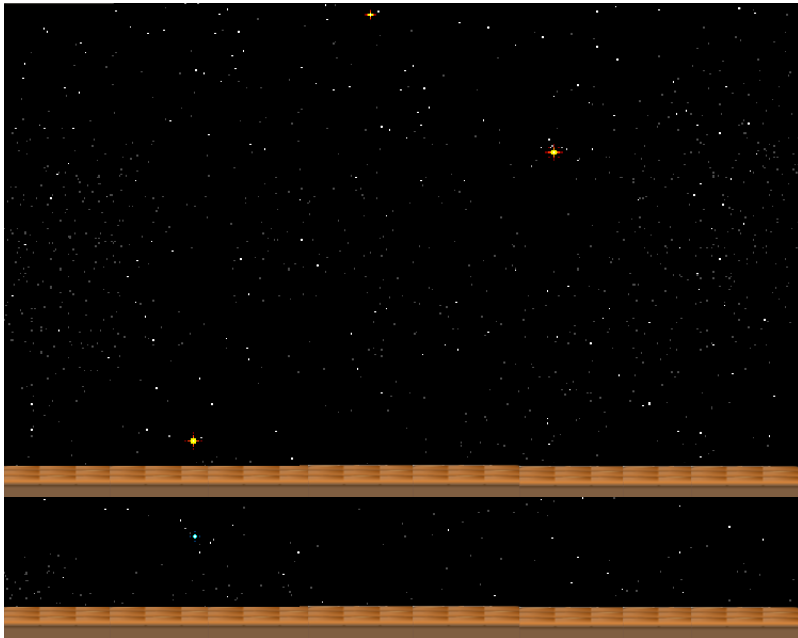
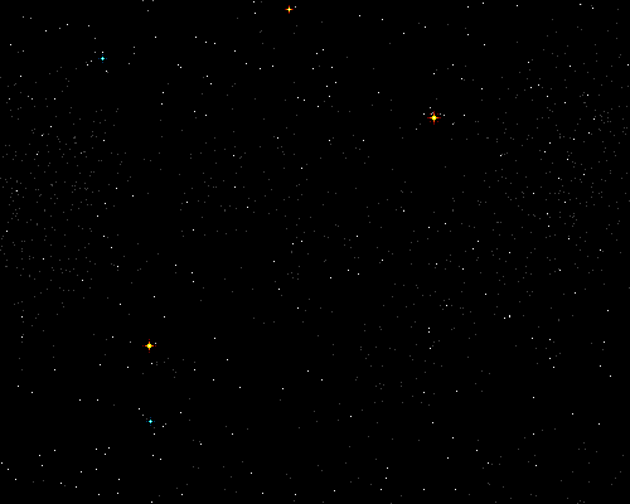
ajustes icones, plataformas, som

diff --git a/core/src/main/java/br/com/drestranho/jogogleiton/core/JogoGleiton.java b/core/src/main/java/br/com/drestranho/jogogleiton/core/JogoGleiton.java
@@ -5,21 +5,28 @@ import static playn.core.PlayN.*;
 import java.util.ArrayList;
 import java.util.List;
 
+import playn.core.CanvasImage;
 import playn.core.Game;
 import playn.core.GroupLayer;
 import playn.core.Image;
 import playn.core.ImageLayer;
 import playn.core.Pointer;
+import playn.core.Sound;
+import pythagoras.f.Rectangle;
 
 public class JogoGleiton extends Game.Default {
 	static final float GRAVITY = 64;
 
 	ImageLayer layer;
+	CanvasImage pontosImagem;
+	ImageLayer pontosLayer;
+	int pontos;
 	Image inimigo2;
 	List<Inimigo> inimigos;
 	List<Canhao> canhoes; 
 	//	GroupLayer misseisLayer;
 	Pointer.Adapter pointer;
+	Sound tiro;
 
 	float px, py;
 	float x, y;
@@ -33,18 +40,31 @@ public class JogoGleiton extends Game.Default {
 	@Override
 	public void init() {
 		// create and add background image layer
-		Image bgImage = assets().getImage("images/fundo.png");
+		Image bgImage = assets().getImage("images/fundo2.png");
 		ImageLayer bgLayer = graphics().createImageLayer(bgImage);
+//		bgLayer.setScale(Util.Y_MAX, Util.X_MAX);
 		graphics().rootLayer().add(bgLayer);
+		
+		Image soloImage = assets().getImage("images/solo.png");
+		for (int i=0; i<Util.X_MAX; i+=17) {
+			ImageLayer soloLayer = graphics().createImageLayer(soloImage);
+			graphics().rootLayer().add(soloLayer);
+			soloLayer.transform();
+			soloLayer.setTranslation(i,Util.Y_MAX+25);
+		}
 
 		x = graphics().width() / 2;
 		y = graphics().height() / 2;
 		ax = GRAVITY;
+		
+		initPontos();
+		
+		tiro = assets().getSound("images/tiro");
 
 		canhoes = new ArrayList<Canhao>();
 		float distancia = (float) (Util.X_MAX/(Util.N_CANHAO+1));
 		for ( int i=0; i< Util.N_CANHAO ; i++) {
-			canhoes.add(new Canhao((i+1)*distancia,Util.Y_CANHAO, "images/canhao.png"));//51x61
+			canhoes.add(new Canhao((i+1)*distancia,Util.Y_CANHAO, Util.SRC_CANHAO));//51x61
 		}
 		
 
@@ -61,11 +81,21 @@ public class JogoGleiton extends Game.Default {
 				//	    	    tiro.setTranslation(event.x(), event.y());
 				//	    	    misseisLayer.add(tiro);
 				for (Canhao c : canhoes )
-					if (c.getBounds().contains(event.x(), event.y()))
+					if (c.getBounds().contains(event.x(),event.y())) {
 						c.atirar();
+						tiro.play();
+					}
 			}
 		});
 
+	}
+	
+	void initPontos() {
+		pontos=0;
+		pontosImagem = graphics().createImage(640, 50);
+		pontosLayer = graphics().createImageLayer(pontosImagem);
+		pontosLayer.setScale(3f);
+		graphics().rootLayer().add(pontosLayer);
 	}
 
 	private void adicionaInimigo() {
@@ -92,12 +122,6 @@ public class JogoGleiton extends Game.Default {
 			i.mover();
 		}
 
-		// Update physics.
-		//	    delta /= 1000;
-		//	    vx += ax * delta;
-		//	    vy += ay * delta;
-		//	    x += 1;//vx * delta;
-		//	    y += vy * delta;
 	}
 	
 	public void checarColisoes() {
@@ -107,20 +131,18 @@ public class JogoGleiton extends Game.Default {
 					if (i.getBounds().intersects(m.getBounds())) {
 						i.isVisible=false;
 						m.isVisible=false;
-//						c.getMisseis().remove(m);
-//						inimigos.remove(i);
+						pontos++;
 					}
 				}
 				if (m.getY()<=0) {
 					m.isVisible=false;
-//					c.getMisseis().remove(m);
 				}
 			}
 		}
-		for (int i=0;i<inimigos.size()-1;i++) {//if (inimigos.size()>0) 
-//			System.out.println("----------missil");
+		for (int i=0;i<inimigos.size()-1;i++) { 
 			if (!inimigos.get(i).isVisible) {
 				graphics().rootLayer().remove(inimigos.get(i).getLayer());
+				
 				inimigos.remove(i);
 			}
 		}
@@ -134,6 +156,13 @@ public class JogoGleiton extends Game.Default {
 		//	    float x = (this.x * alpha) + (px * (1f - alpha));
 		//	    float y = (this.y * alpha) + (py * (1f - alpha));
 
+		
+		// Pontuacao
+		String s = Integer.toString(pontos);
+		pontosImagem.canvas().clear();
+		pontosImagem.canvas().setFillColor(0xff00ffff);
+		pontosImagem.canvas().drawText(s, 10f, 20f);
+		
 		// Update the layer.
 
 		for (Canhao c : canhoes) {
@@ -147,16 +176,8 @@ public class JogoGleiton extends Game.Default {
 
 		for (Inimigo i : inimigos) {
 			i.getLayer().transform();
-			i.getLayer().setTranslation(
-					i.getX(),
-					i.getY()
-					);
+			i.getLayer().setTranslation(i.getX(),i.getY());
 		}
-		//	    layer.transform();	    
-		//	    layer.setTranslation(
-		//	      x - layer.image().width() / 2,
-		//	      y - layer.image().height() / 2
-		//	    );
 	}
 
 	public int updateRate() {

diff --git a/core/src/main/java/br/com/drestranho/jogogleiton/core/Util.java b/core/src/main/java/br/com/drestranho/jogogleiton/core/Util.java
@@ -1,12 +1,18 @@
 package br.com.drestranho.jogogleiton.core;
 
 public class Util {
-	public static final float X_MAX=698;
+	public static final boolean ANDROID=false;
+	public static final float X_MAX=ANDROID?320:650;
 	public static final float X_MIN=0;
-	public static final float Y_MAX=598;
+	public static final float Y_MAX=ANDROID?200:440;
 	public static final float Y_MIN=0;
-	public static final float Y_MISSIL=385;
+	public static final float Y_MISSIL=Y_MAX-(ANDROID?10:51);
 	public static final int N_CANHAO=3;
-	public static final float CANHAO_2=400;
-	public static final float Y_CANHAO=410;
+	public static final float Y_CANHAO=Y_MAX-(ANDROID?10:28);
+	public static final float MARGEM_CANHAO = ANDROID?20:0;
+	public static final float LARGURA_CANHAO=ANDROID?25:51;
+	public static final float LARGURA_MISSIL=ANDROID?9:15;
+	public static final String SRC_FUNDO=ANDROID?"images/fundo-p.png":"images/fundo.png";
+	public static final String SRC_CANHAO=ANDROID?"images/canhao-p.png":"images/canhao.png";
+	public static final String SRC_MISSIL=ANDROID?"images/missil-p.png":"images/missil.png";
 }

diff --git a/core/src/main/java/br/com/drestranho/jogogleiton/core/Canhao.java b/core/src/main/java/br/com/drestranho/jogogleiton/core/Canhao.java
@@ -3,6 +3,8 @@ package br.com.drestranho.jogogleiton.core;
 import java.util.ArrayList;
 import java.util.List;
 
+import pythagoras.f.Rectangle;
+
 public class Canhao extends ObjTela {
 
 	public List<Missil> misseis;
@@ -20,7 +22,7 @@ public class Canhao extends ObjTela {
 	}
 	
 	public void atirar() {
-		misseis.add(new Missil(getX()+35/2,Util.Y_MISSIL,"images/missil.png"));//15x35 +getLayer().width()/2
+		misseis.add(new Missil(getX()+Util.LARGURA_CANHAO/2-Util.LARGURA_MISSIL/2,Util.Y_MISSIL,Util.SRC_MISSIL));//15x35 +getLayer().width()/2
 	}
 
 	public List<Missil> getMisseis() {
@@ -29,6 +31,16 @@ public class Canhao extends ObjTela {
 
 	public void setMisseis(List<Missil> misseis) {
 		this.misseis = misseis;
+	}
+
+	@Override
+	public Rectangle getBounds() {
+		return new Rectangle(
+				super.getBounds().x()-(Util.MARGEM_CANHAO)
+				,super.getBounds().y()
+				,super.getBounds().width()+(Util.MARGEM_CANHAO*2)
+				,super.getBounds().height()+(Util.MARGEM_CANHAO)
+				);
 	}
 	
 	

diff --git a/core/src/main/java/br/com/drestranho/jogogleiton/core/ObjTela.java b/core/src/main/java/br/com/drestranho/jogogleiton/core/ObjTela.java
@@ -7,7 +7,7 @@ import java.awt.event.KeyEvent;
 
 import playn.core.Image;
 import playn.core.ImageLayer;
-//import java.awt.Rectangle;
+import playn.core.Sound;
 import pythagoras.f.Rectangle;
 
 public class ObjTela {
@@ -21,6 +21,7 @@ public class ObjTela {
 		dx = 0;
 		dy = 0;
 		Image imagem = assets().getImage(iPath);
+		
 		layer = graphics().createImageLayer(imagem);
 		graphics().rootLayer().add(layer);
 		altura = imagem.height();
